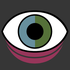
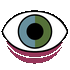
fix text, update footerlogo

diff --git a/pages/index.js b/pages/index.js
@@ -52,8 +52,8 @@ export default function Home() {
               <br />
               We're being witches together in the Minecraft Modpack{' '}
               <a href="https://www.curseforge.com/minecraft/modpacks/cottage-witch">
-                Cottage Witch{' '}
-              </a>
+                Cottage Witch
+              </a>{' '}
               <small>(v 1.13.2 for Minecraft Java Edition 1.19.2)</small>
             </li>
           </ul>

diff --git a/components/Footer.js b/components/Footer.js
@@ -4,8 +4,8 @@ export default function Footer() {
   return (
     <>
       <footer className={styles.footer}>
-        <img src="/logo-netlify.svg" alt="Netlify Logo" className={styles.logo} />
+        <img src="/safari-pinned-tab.svg" alt="Logo" className={styles.logo} />
       </footer>
     </>
-  )
+  );
 }
